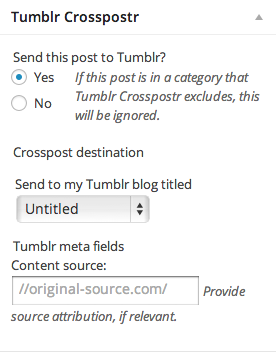
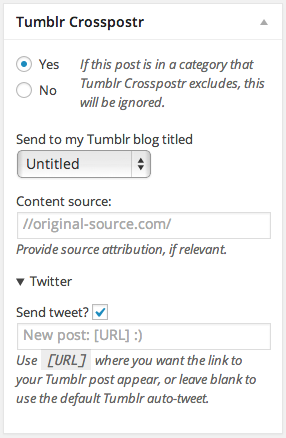
Implement auto-tweet control when editing posts. Version bump to 0.7.3.
git-svn-id: https://plugins.svn.wordpress.org/tumblr-crosspostr/trunk@867167 b8457f37-d9ea-0310-8a92-e5e31aec5664

diff --git a/tumblr-crosspostr.css b/tumblr-crosspostr.css
@@ -1,0 +1,6 @@
+#tumblr-crosspostr-meta-box legend {
+    display: none;
+}
+#tumblr-crosspostr-meta-box input[type="text"] {
+    width: 100%;
+}

diff --git a/tumblr-crosspostr.php b/tumblr-crosspostr.php
@@ -3,7 +3,7 @@
  * Plugin Name: Tumblr Crosspostr
  * Plugin URI: https://github.com/meitar/tumblr-crosspostr/#readme
  * Description: Automatically crossposts to your Tumblr blog when you publish a post on your WordPress blog.
- * Version: 0.7.2
+ * Version: 0.7.3
  * Author: Meitar Moscovitz
  * Author URI: http://Cyberbusking.org/
  * Text Domain: tumblr-crosspostr
@@ -18,6 +18,7 @@ class Tumblr_Crosspostr {
         add_action('init', array($this, 'setTumblrSyncSchedules'));
         add_action('admin_init', array($this, 'registerSettings'));
         add_action('admin_menu', array($this, 'registerAdminMenu'));
+        add_action('admin_enqueue_scripts', array($this, 'registerAdminScripts'));
         add_action('admin_head', array($this, 'registerContextualHelp'));
         add_action('add_meta_boxes', array($this, 'addMetaBox'));
         add_action('save_post', array($this, 'savePost'));
@@ -391,6 +392,13 @@ END_HTML;
         }
 
         if ($prepared_post = $this->prepareForTumblr($post_id)) {
+            if (isset($_POST['tumblr_crosspostr_send_tweet'])) {
+                if (!empty($_POST['tumblr_crosspostr_tweet_text'])) {
+                    $prepared_post->params['tweet'] = sanitize_text_field($_POST['tumblr_crosspostr_tweet_text']);
+                }
+            } else {
+                $prepared_post->params['tweet'] = 'off';
+            }
             $data = $this->crosspostToTumblr($prepared_post->base_hostname, $prepared_post->params, $prepared_post->tumblr_id);
             update_post_meta($post_id, 'tumblr_post_id', $data->response->id);
         }
@@ -603,6 +611,11 @@ END_HTML;
         );
     }
 
+    public function registerAdminScripts () {
+        wp_register_style('tumblr-crosspostr', plugins_url('tumblr-crosspostr.css', __FILE__));
+        wp_enqueue_style('tumblr-crosspostr');
+    }
+
     public function addMetaBox ($post) {
         add_meta_box(
             'tumblr-crosspostr-meta-box',
@@ -650,7 +663,7 @@ END_HTML;
     <legend><?php esc_html_e('Tumblr meta fields', 'tumblr-crosspostr');?></legend>
     <p>
         <label><?php esc_html_e('Content source:', 'tumblr-crosspostr');?>
-            <input id="tumblr_crosspostr_meta_source_url"
+            <input id="tumblr_crosspostr_meta_source_url" type="text"
                 name="tumblr_crosspostr_meta_source_url"
                 title="<?php esc_attr_e('Set the content source of this post on Tumblr by pasting the URL where you found the content you are blogging about.', 'tumblr-crosspostr'); if ($options['auto_source'] === 'Y') { print ' ' . esc_attr__('Leave this blank to set the content source URL of your Tumblr post to the permalink of this WordPress post.', 'tumblr-crosspostr'); } ?>"
                 value="<?php print esc_attr($s);?>"
@@ -659,7 +672,31 @@ END_HTML;
         </label>
     </p>
 </fieldset>
+    <?php if ($post->post_status !== 'publish') { ?>
+<fieldset>
+    <legend><?php esc_html_e('Social media broadcasts', 'tumblr-crosspostr');?></legend>
+    <details open="open"><!-- Leave open until browsers work out their keyboard accessibility issues with this. -->
+        <summary><?php esc_html_e('Twitter', 'tumblr-crosspostr');?></summary>
+        <p>
+            <label>
+                <?php esc_html_e('Send tweet?', 'tumblr-crosspostr');?>
+                <input type="checkbox" name="tumblr_crosspostr_send_tweet" value="1" checked="checked"
+                    title="<?php esc_html_e('Uncheck to disable the auto-tweet.', 'tumblr-crosspostr');?>"
+                    />
+            </label>
+            <label>
+                <input id="tumblr_crosspostr_tweet_text" type="text"
+                    name="tumblr_crosspostr_tweet_text"
+                    title="<?php esc_attr_e('If your Tumblr automatically tweets new posts to your Twitter account, you can customize the default tweet text by entering it here.', 'tumblr-crosspostr');?>"
+                    placeholder="<?php print sprintf(esc_attr__('New post: %s :)', 'tumblr-crosspostr'), '[URL]');?>"
+                    maxlength="140" />
+                <span class="description"><?php print sprintf(esc_html__('Use %s where you want the link to your Tumblr post appear, or leave blank to use the default Tumblr auto-tweet.', 'tumblr-crosspostr'), '<code>[URL]</code>');?></span>
+            </label>
+        </p>
+    </details>
+</fieldset>
 <?php
+        }
     }
 
     /**
